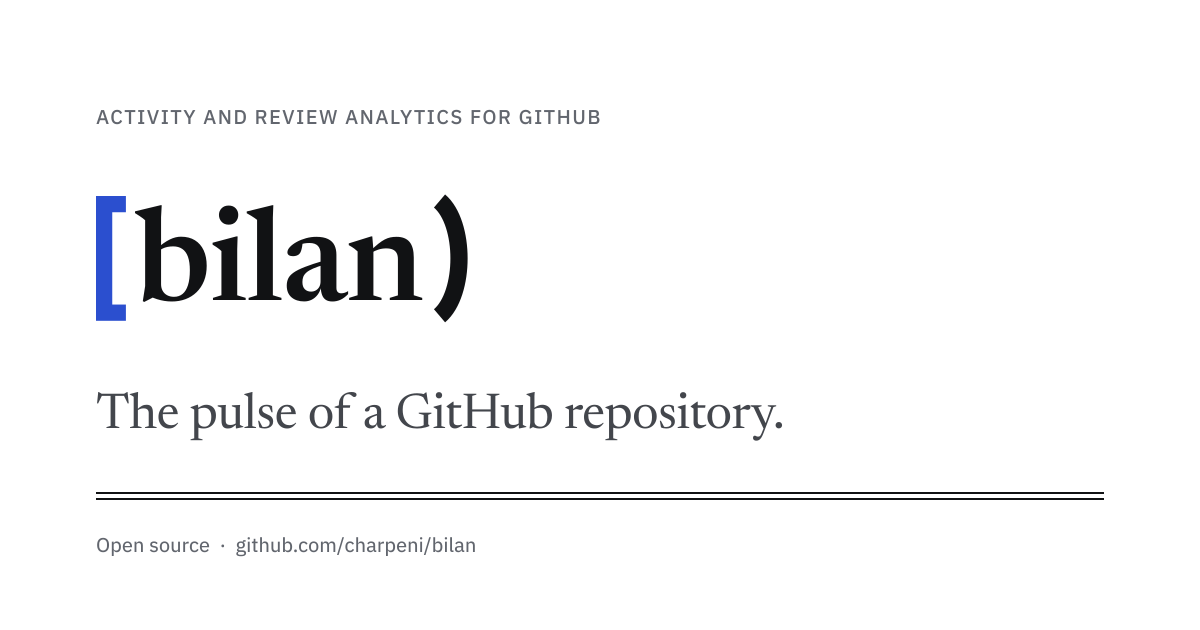
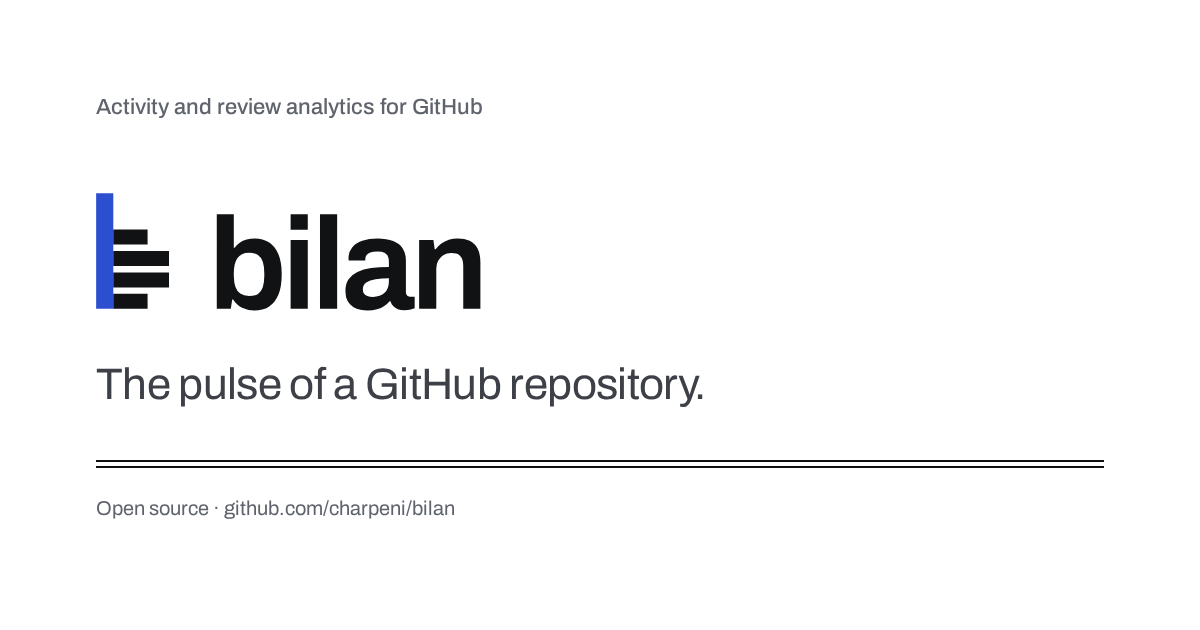
Replace the [ ) mark with the ledger b (#1)
The new mark is a lowercase b drawn as a
bar chart: an ink-blue stem, the axis every figure is read from, and
four ink bars coming off it that trace the bowl. A pixel-snapped
16-unit drawing serves the favicon and BrandMark below 24px, and the
ICO frames are drawn on their own 16, 32 and 48px grids.

The wordmark sets the mark before "bilan" in Archivo, the site's face,
instead of Newsreader, with the stem as wide as Archivo's l. The mark
stands on the baseline like a letter, so the header, footer, gloss and
state-page rows now align their items to the baseline. The icons,
logo.png and og.png are regenerated from the new drawings, and the
social card is set in Archivo too.

The bracket also lived on in the product. The landing timeline's anchor
drops its arms and becomes the stem the lanes' bars start from, and the
dashboard's range control marks the pressed range with the accent stem
instead of writing it as "[Last 30 days)". The brand README describes
the new geometry and rules.

diff --git a/packages/web/src/styles/site.css b/packages/web/src/styles/site.css
@@ -171,10 +171,16 @@ html {
   gap: 16px;
   min-width: 0;
 }
+/*
+ * The mark sits on the baseline like a letter of the word; wrapping lets
+ * `align-content` centre that one baseline-aligned line in the header's height.
+ */
 .wordmark {
   flex: none;
   display: inline-flex;
-  align-items: center;
+  flex-wrap: wrap;
+  align-items: baseline;
+  align-content: center;
   gap: 0.3em;
   height: var(--hdr-h);
   font: 650 20px/1 var(--font-sans);
@@ -685,7 +691,7 @@ form + .pop-item,
 }
 .state-card .eyebrow {
   display: flex;
-  align-items: center;
+  align-items: baseline;
   gap: 8px;
   margin: 0;
   font-size: 14px;
@@ -838,7 +844,7 @@ form + .pop-item,
 }
 .gloss-word {
   display: inline-flex !important;
-  align-items: center;
+  align-items: baseline;
   gap: 0.3em;
   font-weight: 650;
   font-size: 16px;
@@ -1242,6 +1248,10 @@ form + .pop-item,
   font-size: 13px;
   letter-spacing: 0;
 }
+/*
+ * The anchor is the mark's stem: the accent axis the lanes' bars start from,
+ * so the timeline draws the ledger b where the clock starts.
+ */
 .tl-anchor {
   position: absolute;
   left: var(--x);
@@ -1250,22 +1260,6 @@ form + .pop-item,
   width: 2px;
   margin-left: -1px;
   background: var(--accent);
-}
-/* The anchor is drawn as the brand's bracket: "[", closed where the clock starts. */
-.tl-anchor::before,
-.tl-anchor::after {
-  content: '';
-  position: absolute;
-  left: 0;
-  width: 8px;
-  height: 2px;
-  background: var(--accent);
-}
-.tl-anchor::before {
-  top: 0;
-}
-.tl-anchor::after {
-  bottom: 0;
 }
 .tl-anchor span {
   position: absolute;

diff --git a/packages/ui/src/styles.css b/packages/ui/src/styles.css
@@ -28,7 +28,7 @@
   --guide: #eef0f2;
   --grid: #eceef0;
   --axis: #8a8f98;
-  /* the accent: ink blue, for the pressed state, links, and the bracket */
+  /* the accent: ink blue, for the pressed state, links, and the mark's stem */
   --accent: #2b4fcf;
   --accent-wash: #e3e9ff;
   --on-accent: #ffffff;
@@ -296,10 +296,9 @@ thead th .sort:focus-visible,
   color: var(--on-accent);
 }
 /*
- * The range control: the pressed range is written as the interval it
- * measures, "[Last 30 days)", with the brand's ink-blue bracket where the
- * window starts. Every button reserves its brackets, so pressing never
- * shifts the row.
+ * The range control: the pressed range takes the brand mark's ink-blue stem,
+ * the axis its window is read from. Every button reserves the stem, so
+ * pressing never shifts the row.
  */
 .range-seg {
   background: none;
@@ -321,25 +320,16 @@ thead th .sort:focus-visible,
   color: var(--ink);
   font-weight: 600;
 }
-.range-seg button::before,
-.range-seg button::after {
-  font-weight: 700;
-  line-height: 1;
-  color: transparent;
-}
 .range-seg button::before {
-  content: '[' / '';
-  margin-right: 3px;
-}
-.range-seg button::after {
-  content: ')' / '';
-  margin-left: 3px;
+  content: '';
+  display: inline-block;
+  width: 2px;
+  height: 1em;
+  margin-right: 6px;
+  vertical-align: -0.15em;
 }
 .range-seg button[aria-pressed='true']::before {
-  color: var(--accent);
-}
-.range-seg button[aria-pressed='true']::after {
-  color: var(--ink);
+  background: var(--accent);
 }
 .seg button.needs-load {
   color: var(--muted);

diff --git a/packages/web/public/brand/README.md b/packages/web/public/brand/README.md
@@ -1,51 +1,57 @@
 # bilan brand assets
 
-## Concept: Intervalle
+## Concept: Relevé
 
-bilan is the pulse of a GitHub repository, and a pulse is always read over a
-window of time: who contributed, what moved, how reviews flowed, where work
-waited. The mark is that window written as a half-open interval, **[start,
-now)**: an ink-blue square bracket (the accent, `--accent`) closes the start,
-because the window begins at a fixed point, and an ink parenthesis leaves the
-end open, because the story is still going. Developers already read ranges
-this way (Python's `range`, Rust's `a..b`, SQL windows). The lockup puts the
-name inside the window: **[bilan)**.
+bilan turns a repository's history into figures, and a _bilan_ is the sheet
+they are read from. The mark is the ledger b: a lowercase b drawn as a bar
+chart. The stem is the axis every figure is measured from and takes the
+ink-blue accent (`--accent`); the ink bars that come off it trace the bowl, so
+the initial of the name is also a chart of the data. On the landing page the
+timeline draws the same thing: the accent anchor at "ready for review" is the
+stem, and the lanes' bars start from it.
 
 Geometry (64-unit grid, two shapes, hand-written paths):
 
-- Bracket: one polygon, `M8 10H24V18H16V46H24V54H8Z`: stem 8u, arms 16 x 8u,
-  44u tall. Every coordinate is even, so it is crisp at 32 px.
-- Parenthesis: one cubic stroke, `M41 12.94C54 19.94 54 44.06 41 51.06`,
-  8.5u wide (6% heavier than the stem so the curve reads at the same weight),
-  butt caps. The ends are inset so the cap tips overshoot the bracket by 0.8u,
-  the usual optical overshoot for a curve against a flat.
-- The bracket carries more ink on purpose: it holds the accent and the meaning.
-- `favicon.svg` and the ICO frames use separately drawn, pixel-snapped
-  versions: a whole-pixel bracket (2 px stem and arms) and a 2.1 px
-  parenthesis.
+- Stem: `M15 5H23V59H15Z`, 8u wide and 54u tall.
+- Bars: four 7u bars with 3u gaps, flush with the stem, 16, 26, 26 and 16u
+  long: `M23 22H39V29H23ZM23 32H49V39H23ZM23 42H49V49H23ZM23 52H39V59H23Z`.
+  The bowl is 37u of the 54u height (69%), close to Archivo's x-height to
+  ascender ratio (526 / 723, 73%), and the last bar sits on the stem's foot,
+  like a baseline.
+- The glyph spans x 15 to 49 and y 5 to 59, centred on the grid. Every
+  coordinate is whole, so the mark is crisp wherever a unit lands on a pixel.
+- `favicon.svg`, `<BrandMark>` below 24 px and the ICO frames use separately
+  drawn, pixel-snapped versions. The 16u drawing keeps the four bars: a 2 px
+  stem, 2 px bars with 1 px gaps, 4 and 7 px long (`M3 1H5V15H3Z`, bars from
+  y 4, 7, 10 and 13). The 16 px ICO frame drops to three bars to fit its
+  tile.
 
-Wordmark: `bilan` in Newsreader (weight 560, optical size 48, tracking
--0.01em, the concept's display face), converted to outlines. The bracket and
-parenthesis are redrawn at text scale: stem 12.5u against Newsreader's 12.2u
-`l` stem, from 7u above the ascender to 16u below the baseline, 7u from the
-arm tips to the `b` and 9u from the `n` to the parenthesis.
+Wordmark: the mark, then `bilan` in Archivo (weight 650, tracking -0.035em,
+as in the site header), converted to outlines. At a font size of 100u the
+mark is 88.4u tall, so its stem is 13.1u wide, the width of Archivo's `l`
+stem at that weight. It stands on the baseline and rises 16.1u above the
+ascenders, 30u (0.3em) from the `b`, the gap the header uses.
 
 ## Rules
 
-- **Clear space:** on every side, at least the width of the bracket's stem
-  (8u in the mark, 12.5u in the wordmark, about a fifth of the mark's
-  height). Every SVG in this folder already includes it in its viewBox.
-- **Minimum size:** mark 12 px tall (use `favicon.svg`, or `<BrandMark>`, which
-  switches to the pixel-snapped drawing below 24 px); wordmark lettering 14
-  px tall, which is the SVG rendered at about 24 px tall (60 px wide).
-- **Colour:** ink-blue accent on the bracket, ink parenthesis and lettering, or a single
-  colour. Never swap the colours (the accent always marks the start), never
-  put the accent on the parenthesis or the letters, and use no gradients,
-  outlines or shadows. Neutral grounds only: white or `#0d0e10`, never a warm
-  or tinted paper.
+- **Clear space:** on every side, at least the width of the stem (8u in the
+  mark, 13.1u in the wordmark, about a seventh of the mark's height). Every
+  SVG in this folder already includes it in its viewBox.
+- **Minimum size:** mark 14 px tall (use `favicon.svg`, or `<BrandMark>`,
+  which switches to the pixel-snapped drawing below 24 px; 14 px is that
+  drawing's native size); wordmark 24 px tall, which sets the lettering about
+  15 px tall.
+- **Colour:** ink-blue accent on the stem, ink bars and lettering, or a single
+  colour. Never swap the colours (the accent always marks the axis), never put
+  the accent on the bars or the letters, and use no gradients, outlines or
+  shadows. Neutral grounds only: white or `#0d0e10`, never a warm or tinted
+  paper.
+- **Shape:** keep the bars joined to the stem, the stem rising above them,
+  and the bars' lengths short, long, long, short: that is what makes it a b.
+  Equal bars, or bars set apart from the stem, read as a generic "I≡".
 - **Palette:** light: ink `#111214`, ink-blue accent `#2b4fcf` on `#ffffff`.
-  Dark: ink `#ececee`, ink-blue accent `#8aa4ff` on `#0d0e10`. App icons use the dark
-  version on a `#0d0e10` square.
+  Dark: ink `#ececee`, ink-blue accent `#8aa4ff` on `#0d0e10`. App icons use
+  the dark version on a `#0d0e10` square.
 - **Contrast (WCAG):** `#2b4fcf` is 6.73:1 on `#ffffff` but only 2.87:1 on
   `#0d0e10`, so dark grounds must use `#8aa4ff` (8.12:1; it is 2.38:1 on
   white, so never the other way round). Ink `#111214` is 18.74:1
@@ -53,19 +59,19 @@ arm tips to the `b` and 9u from the `n` to the parenthesis.
 
 ## Files
 
-| File                                   | Use                                                                                                                                                                          |
-| -------------------------------------- | ---------------------------------------------------------------------------------------------------------------------------------------------------------------------------- |
-| `mark.svg`, `mark-dark.svg`            | Symbol alone for light / dark backgrounds (docs, README, slides). 63 x 61.7, clear space included.                                                                           |
-| `wordmark.svg`, `wordmark-dark.svg`    | `[bilan)` for light / dark backgrounds (GitHub README, external pages). 310.9 x 123.4, clear space included.                                                                 |
-| `../../src/components/BrandMark.astro` | In the app: the inlined mark, bracket in `var(--accent)`, parenthesis in `currentColor`. Props: `size` (bracket height in px, default 20), `accent` (default true), `title`. |
-| `favicon.svg`                          | Browser tab icon, 16u pixel-snapped; follows the OS colour scheme.                                                                                                           |
-| `favicon.ico`                          | Legacy fallback: 16, 32 and 48 px frames on a `#0d0e10` rounded tile.                                                                                                        |
-| `favicon-32.png`                       | PNG fallback for tools that do not read ICO or SVG.                                                                                                                          |
-| `apple-touch-icon.png`                 | 180 x 180, full-bleed `#0d0e10` square (iOS rounds the corners).                                                                                                             |
-| `icon-192.png`, `icon-512.png`         | Web app manifest icons, full bleed; the glyph sits inside the maskable safe zone.                                                                                            |
-| `logo.png`                             | 1024 x 1024 avatar (GitHub, npm, social profiles).                                                                                                                           |
-| `og.png`                               | 1200 x 630 social card on white: label, `[bilan)`, "The pulse of a GitHub repository.", the double rule.                                                                     |
-| `site.webmanifest`                     | Web app manifest.                                                                                                                                                            |
+| File                                   | Use                                                                                                                                                             |
+| -------------------------------------- | --------------------------------------------------------------------------------------------------------------------------------------------------------------- |
+| `mark.svg`, `mark-dark.svg`            | Symbol alone for light / dark backgrounds (docs, README, slides). 50 x 70, clear space included.                                                                |
+| `wordmark.svg`, `wordmark-dark.svg`    | Mark and `bilan` for light / dark backgrounds (GitHub README, external pages). 325.83 x 114.59, clear space included.                                           |
+| `../../src/components/BrandMark.astro` | In the app: the inlined mark, stem in `var(--accent)`, bars in `currentColor`. Props: `size` (stem height in px, default 20), `accent` (default true), `title`. |
+| `favicon.svg`                          | Browser tab icon, 16u pixel-snapped; follows the OS colour scheme.                                                                                              |
+| `favicon.ico`                          | Legacy fallback: 16, 32 and 48 px frames on a `#0d0e10` rounded tile, each drawn on its own pixel grid.                                                         |
+| `favicon-32.png`                       | PNG fallback for tools that do not read ICO or SVG; the ICO's 32 px frame.                                                                                      |
+| `apple-touch-icon.png`                 | 180 x 180, full-bleed `#0d0e10` square (iOS rounds the corners).                                                                                                |
+| `icon-192.png`, `icon-512.png`         | Web app manifest icons, full bleed; the glyph is half the square's height and sits inside the maskable safe zone.                                               |
+| `logo.png`                             | 1024 x 1024 avatar (GitHub, npm, social profiles).                                                                                                              |
+| `og.png`                               | 1200 x 630 social card on white, set in Archivo: label, the wordmark, "The pulse of a GitHub repository.", the double rule.                                     |
+| `site.webmanifest`                     | Web app manifest.                                                                                                                                               |
 
 ## Head tags
 
@@ -87,7 +93,7 @@ const ogImage = new URL('/brand/og.png', Astro.url).href;
 <meta property="og:image" content={ogImage} />
 <meta property="og:image:width" content="1200" />
 <meta property="og:image:height" content="630" />
-<meta property="og:image:alt" content="[bilan): the pulse of a GitHub repository" />
+<meta property="og:image:alt" content="bilan: the pulse of a GitHub repository" />
 <meta name="twitter:card" content="summary_large_image" />
 ```
 
@@ -102,14 +108,17 @@ Header usage:
 <a class="wordmark" href="/"><BrandMark size={18} />bilan</a>
 ```
 
-with `display: inline-flex; align-items: center; gap: 0.35em` on the link. To
-set the full lockup as live text instead, write `[bilan)` with the bracket in
-`var(--accent)`, or use `wordmark.svg`.
+with `display: inline-flex; align-items: baseline; gap: 0.3em` on the link,
+so the mark stands on the baseline like a letter (the header adds
+`flex-wrap: wrap; align-content: center` to centre that line in its height).
+To set the full lockup outside the app, use `wordmark.svg`.
 
 ## How these were made
 
-Paths are hand-computed; rasters were rendered from the SVGs with `sharp`
-(already in the lockfile), text was outlined from
-`@fontsource-variable/newsreader` and `@fontsource-variable/ibm-plex-sans`
-with `fontkit` and `wawoff2`, and the ICO was packed with `png-to-ico`. That
-tooling ran from a scratch directory and is not a dependency of this package.
+Paths are hand-computed. `bilan` was outlined from
+`@fontsource-variable/archivo` with `fontkit` (after `wawoff2` decompressed
+the WOFF2), the rasters were rendered from SVG with `sharp` (already in the
+lockfile), the ICO's 32-bit BMP frames were packed by a short script, and
+`og.png` was rendered from HTML with headless Chrome, in the site's fonts.
+That tooling ran from a scratch directory and is not a dependency of this
+package.
